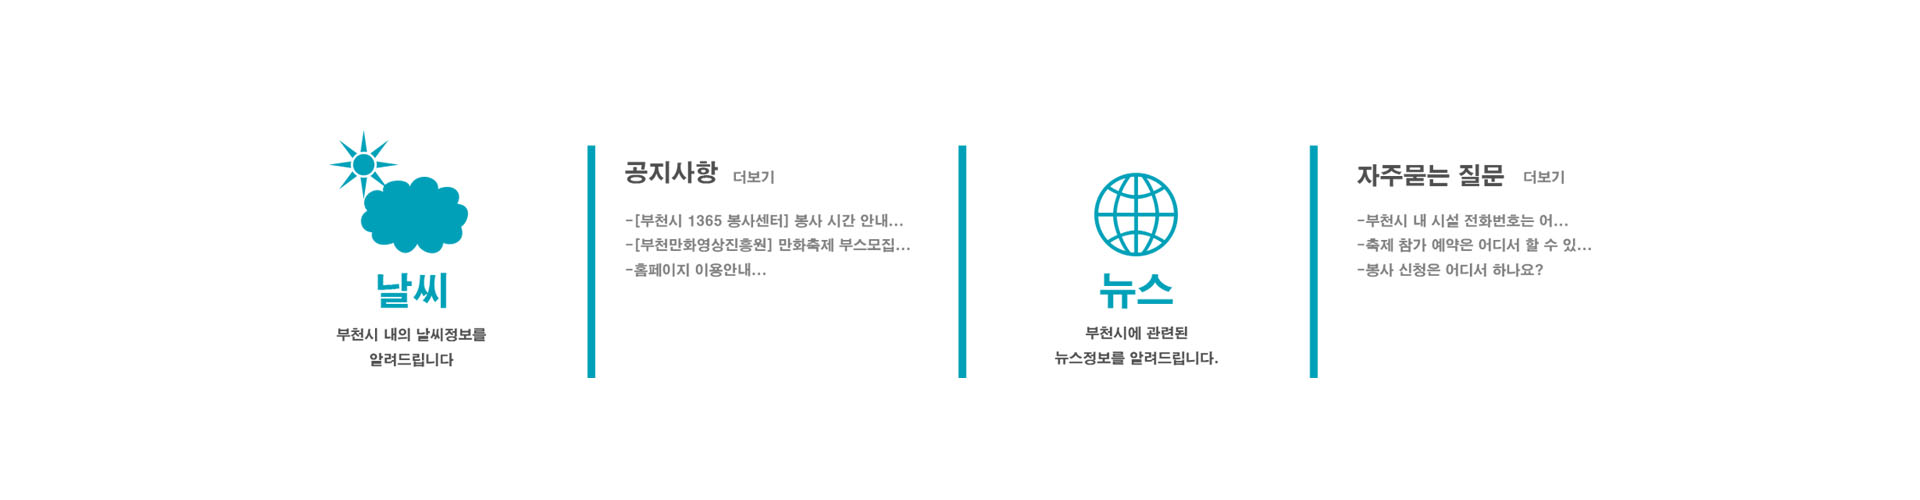
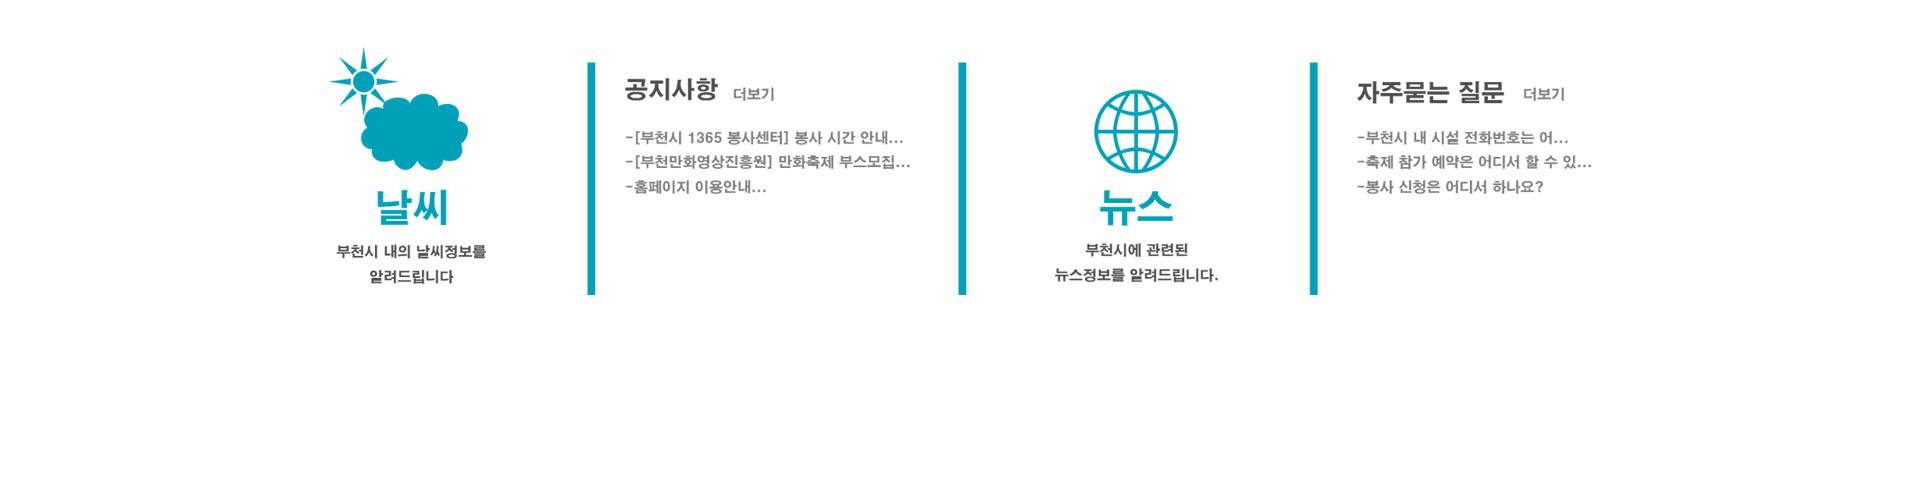
Add files via upload

diff --git a/index.html b/index.html
@@ -12,7 +12,9 @@
 			clear:both;
 		}
 		body{
-			background-image: url(./back.png)		}
+			background-image: url(./back.png);
+			width: 100%;
+		}
 		header{
 			width: 100%;
 			height: 120px;
@@ -39,7 +41,7 @@
 
 		}
 		nav li{
-			padding-left: 150px;
+			padding-left: 100px;
 			float: left;
 			margin:15px 50px;
 		}
@@ -54,16 +56,18 @@
 		}
 
 		section{
-			float: left;
-			margin-top: 10px;	
+			float: left;	
 			background-color: white;
 				}
+		#left{
+			margin-left: 300px;
+		}
 		aside{
 			margin-top: 10px;
 			margin-left: 20px;
 			float:left;
 			width: 300px;
-			height: 100px;
+			height: 150px;
 			border: solid 1px #cccccc;
 			background-color: #00A0B8;
 			color: white;
@@ -98,9 +102,13 @@
 		.dropdown:hover .dropdown-content{
 		display: block;
 	}
+
+	#center{ margin: auto; }
 	</style>
 </head>
 <body>
+
+<div id= 'center'>
 <header>
 	<div id='logo'>
 		<a href="./index.html">
@@ -148,14 +156,15 @@
 	</nav>
 <div class="clear"></div><!--속성해제-->
 <section>
-	<img src="./img/nav.jpg" width="1510">
+	<div id ='left'>
+	<img src="./img/dodang.jpg" width="810">
+</div>
 </section>
 <aside>
-	<ul>
 		<form>
 		로그인 : <input type="text"><br>
-		비밀번호 : <input type="password"
-	</form>
+		비밀번호 : <input type="password">
+		</form>
 	<br>회원가입 │ 아이디찾기 │ 비밀번호찾기
 	</aside>
 <div class="clear"></div>
@@ -167,5 +176,6 @@
 <footer class="clear">
 			</div>
 	</footer>
+</div>
 </body>
 </html>
